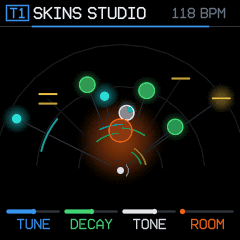
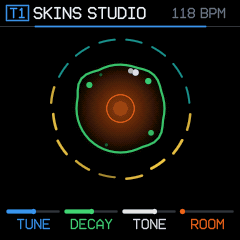
SKINS: a ghost in a shell, three layers that each algorithm changes
In the middle the ghost, the low end: a glow that swells on the kick and breathes. Round it the skin, a
membrane the snare, rim, clap and toms dent at the angle their pan gives them, springing back. Outside
the shell, a ring of metal segments the hats and cymbals shimmer; the open hat pushes them apart, the
closed hat snaps them shut. ORCH's layers are octagons, STUDIO's round; LIVE and HALL send ghost shells
drifting out; TIGHT and MARCH pull the layers in close with short, sharp dents; VINTAGE and SHELLAC are
gold, coarse and a little broken. TUNE spaces the layers, DECAY how slowly a dent springs back, TONE how
bright and thin the shell is, ROOM how many ghost shells and how bright. Replaces the sound field.
Host draw time 0.07-0.13 ms average, within the other engines'.

diff --git a/core/inst_skins.c b/core/inst_skins.c
@@ -17,7 +17,7 @@
  *   K3 (WHITE)  TONE    dark .. bright
  *   K4 (ORANGE) ROOM    the reflections' level (at 0 the two extra readers do not run)
  *
- * The picture is the kit as a sound field (below, before the InstDef). */
+ * The picture is a ghost in a shell (below, before the InstDef). */
 #include "internal.h"
 #include "dsp.h"
 #include "plunk_data.h"
@@ -247,57 +247,48 @@ static void sk_render(Voice *v, const Blk *b, f32 *out_l, f32 *out_r, int n)
     v->q[3] = cnt;
 }
 
-/* ---- the picture: the kit as a sound field, the listener at the bottom ------------------------------
- * Faint half rings around the listener, as a sonar's. Each drum is a mark placed by its pan (left, right)
- * and its register (low drums near, high ones far): a ring for a skin, a bar for metal, a dot for the
- * rest; ORCH's pans lay it out apart from STUDIO's. A strike flares its mark and sends a wavefront down to
- * the listener. TUNE sizes the marks, DECAY how long a wave lasts, TONE how bright and thin it is, ROOM
- * the field's rings and two fainter, wider wavefronts after it (the sound's two reflections). TIGHT's
- * waves are short; VINTAGE and SHELLAC draw in gold, with few segments, angular. The hat's two bars sit
- * apart while the open hat rings and close when the closed hat cuts it. */
-enum { M_SKIN, M_METAL, M_DOT };
-static const uint8_t REACH[NDRUM] = {40, 62, 58, 76, 70, 84, 102, 92, 116, 110, 102, 124};   /* from the listener */
-static const uint8_t MARK[2][NDRUM] = {
-    {M_SKIN, M_DOT, M_SKIN, M_DOT, M_SKIN, M_SKIN, M_METAL, M_SKIN, M_DOT, M_METAL, M_METAL, M_METAL},
-    {M_SKIN, M_DOT, M_SKIN, M_SKIN, M_SKIN, M_SKIN, M_METAL, M_SKIN, M_METAL, M_SKIN, M_METAL, M_METAL},
-};
-static const uint8_t MCOL[2][NDRUM] = {
-    {GC_ORANGE, GC_CYAN, GC_WHITE, GC_CYAN, GC_GREEN, GC_GREEN, GC_GOLD, GC_GREEN, GC_CYAN, GC_GOLD, GC_GOLD, GC_GOLD},
-    {GC_ORANGE, GC_CYAN, GC_WHITE, GC_WHITE, GC_BLUE, GC_BLUE, GC_GOLD, GC_BLUE, GC_GOLD, GC_ORANGE, GC_GOLD, GC_GOLD},
-};
-#define LX 120.0f
-#define LY 170.0f
-
+/* ---- the picture: a ghost in a shell ---------------------------------------------------------
+ * Three layers. In the middle the ghost, the low end: a soft glow that swells on the kick and breathes.
+ * Round it the skin, a membrane for the snare, rim, clap and toms: a strike pushes a dent into it at the
+ * angle the drum's pan gives it, and the dent springs back. Outside, the shell, a ring of metal segments
+ * for the hats and cymbals: struck, they shimmer; the open hat pushes them apart and the closed hat snaps
+ * them shut. ORCH's layers are faceted (octagons), STUDIO's round. LIVE and HALL send ghost shells drifting
+ * out (the room); TIGHT and MARCH pull the layers in close, with short, sharp dents; VINTAGE and SHELLAC
+ * are gold, drawn with few segments, a little broken. TUNE spaces the layers, DECAY is how slowly a dent
+ * springs back, TONE how bright and thin the shell is, ROOM how many ghost shells and how bright. */
+#define CX 120.0f
+#define CY 108.0f
 static f32 sk_e[NDRUM], sk_age[NDRUM];
 static uint32_t sk_seen[NVOICE];
 static int sk_gold;
 
 static void sk_col(int c) { g_color(sk_gold ? GC_GOLD : c); }
-
-/* an arc around the listener, radius r, from angle a0 to a1 (turns, 0 straight up), in n segments */
-static void sk_arc(f32 r, f32 a0, f32 a1, int n, f32 w, f32 a)
+static int sk_metal(int kit, int d)              /* the shell's drums: hats, cymbals and the bells */
 {
-    f32 xy[2 * 17];
-    int j;
-    if (r < 2.0f || a < 0.01f) return;
-    if (n > 16) n = 16;
-    for (j = 0; j <= n; j++) {
-        f32 t = a0 + (a1 - a0) * (f32)j / (f32)n;
-        xy[2 * j] = LX + r * sin_turns(t);
-        xy[2 * j + 1] = LY - r * cos_turns(t);
-    }
-    g_poly(xy, n + 1, 0, w, a);
+    return d == HAT || d == OHAT || d == CYM || (d == EXTRA1 && kit) || (d == EXTRA2 && !kit);
 }
+static f32 sk_angle(int kit, int d) { return (f32)KITS[kit][d].pan * 0.0105f; }   /* turns, 0 at the top */
+static f32 sk_facet(int kit, f32 th)             /* ORCH: a radius that draws an octagon, STUDIO: a circle */
+{
+    f32 u;
+    if (!kit) return 1.0f;
+    u = th * 8.0f;
+    u = (u - (f32)ifloor(u)) - 0.5f;             /* -0.5 .. 0.5 across a facet */
+    return 0.924f / cos_turns(u * 0.125f);
+}
+static f32 sk_wrap(f32 d) { return d - (f32)ifloor(d + 0.5f); }   /* an angle difference, -0.5 .. 0.5 turns */
 
 static void skins_draw(const Vis *vis)
 {
-    int kit = (vis->algo >> 2) & 1, treat = vis->algo & 3, i, j;
+    int kit = (vis->algo >> 2) & 1, treat = vis->algo & 3, i, j, n;
     f32 dt = vis->dt, tune = vis->k[0], dec = vis->k[1], tone = vis->k[2], room = vis->k[3];
-    f32 life = (0.25f + 1.1f * dec) * (treat == 2 ? 0.45f : treat == 1 ? 1.3f : 1.0f);
-    int seg = sk_gold ? 4 : 12;
+    f32 gap = (15.0f + 12.0f * tune) * (treat == 2 ? 0.62f : 1.0f);
+    f32 r_skin = 23.0f + gap, r_shell = r_skin + gap;
+    f32 life = (0.18f + 0.9f * dec) * (treat == 2 ? 0.5f : 1.0f);
+    f32 busy = 0.0f, eo, ec, xy[2 * 49];
 
     sk_gold = treat == 3;
-    seg = sk_gold ? 4 : 12;
+    n = sk_gold ? 12 : 48;
     if (vis->fresh) {
         for (i = 0; i < NDRUM; i++) sk_e[i] = 0.0f, sk_age[i] = 9.0f;
         for (i = 0; i < NVOICE; i++) sk_seen[i] = vis->v[i].serial;
@@ -313,62 +304,93 @@ static void skins_draw(const Vis *vis)
     for (i = 0; i < NDRUM; i++) {
         sk_age[i] += dt;
         sk_e[i] = maxf(0.0f, sk_e[i] - dt / life);
+        busy += sk_e[i];
     }
+    eo = sk_e[OHAT];
+    ec = sk_e[HAT];
 
-    /* the listener's glow, as warm as the playing is busy */
-    {
-        f32 busy = 0.0f;
-        for (i = 0; i < NDRUM; i++) busy += sk_e[i];
-        sk_col(GC_ORANGE);
-        g_glow(LX, LY - 30.0f, 46.0f + 10.0f * room, minf(0.42f, 0.10f + 0.16f * busy));
-    }
-    /* the field: half rings round the listener, brighter with ROOM */
-    sk_col(GC_SLATE);
-    for (j = 1; j <= 3; j++)
-        sk_arc(42.0f * (f32)j, -0.24f, 0.24f, seg + 4, 1.0f, 0.16f + 0.30f * room);
-    sk_col(GC_WHITE);
-    g_disc(LX, LY, 3.5f, 0.9f);
-    g_arc(LX, LY, 8.0f, 0.88f, 1.12f, 1.2f, 0.5f);
-
-    for (i = 0; i < NDRUM; i++) {
-        const Pad *p = &KITS[kit][i];
-        f32 ang = (f32)p->pan * 0.0042f, R = (f32)REACH[i];        /* (pan 44 is about 66 degrees) */
-        f32 x = LX + R * sin_turns(ang), y = LY - R * cos_turns(ang);
-        f32 e = sk_e[i], age = sk_age[i], sz = (4.5f + 3.0f * tune);
-        int c = MCOL[kit][i], k = MARK[kit][i];
-        if (i == OHAT) continue;                                     /* (the hats' mark is HAT's) */
-        sk_col(GC_SLATE);                                            /* its spoke to the listener */
-        g_line(LX + 10.0f * sin_turns(ang), LY - 10.0f * cos_turns(ang), x, y, 1.0f, 0.12f + 0.25f * e);
-
-        /* the wavefront down to the listener, and ROOM's two after it */
-        if (e > 0.02f) {
-            f32 u = minf(1.0f, age / (0.35f * life + 0.05f)), r = R * (1.0f - u);
-            f32 span = 0.02f + 0.05f * u, w = 1.2f + 1.8f * (1.0f - tone);
-            sk_col(c);
-            sk_arc(r, ang - span, ang + span, seg / 2 + 1, w, e * (0.45f + 0.5f * tone));
-            if (room > 0.02f)
-                for (j = 1; j <= 2; j++) {
-                    f32 uj = minf(1.0f, maxf(0.0f, age - 0.07f * (f32)j) / (0.35f * life + 0.05f));
-                    if (uj > 0.0f && uj < 1.0f)
-                        sk_arc(R * (1.0f - uj), ang - span * (1.0f + 1.5f * (f32)j), ang + span * (1.0f + 1.5f * (f32)j),
-                               seg / 2 + 2, 1.0f, room * e * (0.40f - 0.12f * (f32)j));
-                }
+    /* the room: ghost shells drifting out, as many and as bright as ROOM (more on LIVE and HALL) */
+    if (room > 0.02f) {
+        int ghosts = 1 + (int)(room * 2.5f) + (treat == 1);
+        for (j = 0; j < ghosts; j++) {
+            f32 ph = vis->t * 0.22f + (f32)j / (f32)ghosts, u = ph - (f32)ifloor(ph);
+            f32 r = r_shell + 4.0f + u * (30.0f + 10.0f * room);
+            for (i = 0; i <= n; i++) {
+                f32 th = (f32)i / (f32)n;
+                xy[2 * i] = CX + r * sk_facet(kit, th) * sin_turns(th);
+                xy[2 * i + 1] = CY - r * sk_facet(kit, th) * cos_turns(th);
+            }
+            sk_col(GC_CYAN);
+            g_poly(xy, n + 1, 0, 1.0f, room * (1.0f - u) * (0.18f + 0.25f * minf(1.0f, busy)));
         }
+    }
 
-        /* its mark */
-        sk_col(c);
-        if (e > 0.04f) g_glow(x, y, sz * 2.6f, e * (0.25f + 0.35f * tone));
-        if (k == M_SKIN) {
-            f32 rr = sz * (i == KICK ? 1.6f : 1.0f) * (1.0f + 0.35f * e);
-            if (e > 0.04f) g_disc(x, y, rr, e * 0.85f);
-            g_ring(x, y, rr, 1.8f, 0.75f + 0.25f * e);
-        } else if (k == M_METAL) {
-            f32 gap = 0.0f;
-            if (i == HAT) gap = 1.0f + 6.0f * sk_e[OHAT] * (1.0f - sk_e[HAT]);   /* the hats: open, or shut */
-            g_line(x - sz * 1.4f, y - gap, x + sz * 1.4f, y - gap, 2.0f, 0.75f + 0.25f * maxf(e, sk_e[OHAT] * (i == HAT)));
-            if (i == HAT) g_line(x - sz * 1.4f, y + gap, x + sz * 1.4f, y + gap, 2.0f, 0.75f);
+    /* the ghost: the low end, swelling on the kick */
+    {
+        f32 k = sk_e[KICK], breath = 0.5f + 0.5f * sin_turns(vis->t * 0.25f);
+        f32 r = (8.0f + 3.0f * breath) * (1.0f + 0.9f * k);
+        sk_col(GC_ORANGE);
+        g_glow(CX, CY, r_skin * (0.9f + 0.5f * k), 0.16f + 0.40f * k + 0.06f * minf(1.0f, busy));
+        if (sk_gold) {
+            for (i = 0; i <= 6; i++) {
+                f32 th = (f32)i / 6.0f + vis->t * 0.02f;
+                xy[2 * i] = CX + r * sin_turns(th);
+                xy[2 * i + 1] = CY - r * cos_turns(th);
+            }
+            g_poly(xy, 7, 0, 1.8f, 0.8f);
         } else {
-            g_disc(x, y, sz * 0.6f * (1.0f + 0.4f * e), 0.7f + 0.3f * e);
+            g_disc(CX, CY, r * 0.55f, 0.35f + 0.5f * k);
+            g_ring(CX, CY, r, 1.8f, 0.6f + 0.4f * k);
+        }
+    }
+
+    /* the skin: dented where a drum is struck, springing back */
+    for (i = 0; i <= n; i++) {
+        f32 th = (f32)i / (f32)n, r = r_skin;
+        for (j = 0; j < NDRUM; j++) {
+            f32 x, b;
+            if (j == KICK || sk_metal(kit, j) || sk_e[j] < 0.01f) continue;
+            x = sk_wrap(th - sk_angle(kit, j)) * (1.0f / 0.07f);
+            if (x <= -1.0f || x >= 1.0f) continue;
+            b = (1.0f - x * x) * (1.0f - x * x);
+            r -= b * sk_e[j] * (treat == 2 ? 11.0f : 8.0f) * cos_turns(sk_age[j] * (treat == 2 ? 5.0f : 2.6f));
+        }
+        r *= sk_facet(kit, th);
+        xy[2 * i] = CX + r * sin_turns(th);
+        xy[2 * i + 1] = CY - r * cos_turns(th);
+    }
+    sk_col(GC_GREEN);
+    g_poly(xy, n + 1, 0, 2.2f, 0.85f);
+    for (j = 0; j < NDRUM; j++) {                                    /* where each skin drum sits, a tick */
+        f32 th = sk_angle(kit, j), r = r_skin * sk_facet(kit, th);
+        if (j == KICK || sk_metal(kit, j)) continue;
+        sk_col(j == SNARE || j == RIM ? GC_WHITE : GC_GREEN);
+        g_disc(CX + (r - 5.0f) * sin_turns(th), CY - (r - 5.0f) * cos_turns(th), 1.6f + 2.0f * sk_e[j], 0.35f + 0.65f * sk_e[j]);
+    }
+
+    /* the shell: metal segments, shimmering where struck, apart for the open hat, shut by the closed one */
+    {
+        int segs = sk_gold ? 8 : 16;
+        f32 spread = 7.0f * eo * (1.0f - ec) - 2.0f * ec;
+        for (i = 0; i < segs; i++) {
+            f32 c = ((f32)i + 0.5f) / (f32)segs, half = (0.5f / (f32)segs) * (0.72f - 0.25f * eo * (1.0f - ec));
+            f32 hit = 0.0f, r;
+            int k;
+            if (sk_gold && (i % 5) == 3) continue;                   /* (a little broken) */
+            for (j = 0; j < NDRUM; j++) {
+                f32 x;
+                if (!sk_metal(kit, j) || sk_e[j] < 0.01f) continue;
+                x = sk_wrap(c - sk_angle(kit, j)) * (1.0f / 0.16f);
+                if (x > -1.0f && x < 1.0f) hit = maxf(hit, sk_e[j] * (1.0f - x * x));
+            }
+            r = r_shell + spread + hit * 3.0f * sin_turns(vis->t * 9.0f + (f32)i * 0.37f);
+            for (k = 0; k <= 4; k++) {
+                f32 th = c - half + 2.0f * half * (f32)k * 0.25f, rr = r * sk_facet(kit, th);
+                xy[2 * k] = CX + rr * sin_turns(th);
+                xy[2 * k + 1] = CY - rr * cos_turns(th);
+            }
+            sk_col(hit > 0.05f ? GC_GOLD : GC_CYAN);
+            g_poly(xy, 5, 0, (2.6f - 1.2f * tone) + 1.2f * hit, (0.35f + 0.4f * tone) + 0.5f * hit);
         }
     }
     g_color(GC_WHITE);

diff --git a/CHANGELOG.md b/CHANGELOG.md
@@ -34,12 +34,13 @@ A22's own history starts here. It is derived from h1 as of its 0.3.0; h1's histo
   below the limiter; at full track volume SKINS is 0.4 to 2 dB under KIT (its hits peak higher).
   `tests/skins.c` checks every drum on every algorithm sounds and ends, the chokes, ROOM and the
   treatments; `tests/state.c` that a state from before SKINS brings it up as new. The names and the picks
-  are placeholders until judged by ear. Its picture is the kit as a sound field: the listener at the
-  bottom in half rings, each drum a mark placed by its pan and its register (a ring for a skin, a bar for
-  metal, a dot for the rest), so ORCH lays out apart from STUDIO. A strike flares its mark and sends a
-  wavefront down to the listener; ROOM brightens the rings and sends two fainter, wider fronts after it
-  (the sound's reflections); TIGHT's waves are short, VINTAGE and SHELLAC gold and angular. The hat's two
-  bars close when the closed hat cuts the open one.
+  are placeholders until judged by ear. Its picture is a ghost in a shell, three layers: in the middle the
+  ghost (the low end), a glow that swells on the kick; round it the skin, a membrane the snare, rim, clap
+  and toms dent where their pan puts them, springing back; outside the shell, metal segments the hats and
+  cymbals shimmer, pushed apart by the open hat and snapped shut by the closed one. ORCH's layers are
+  octagons, STUDIO's round; LIVE and HALL send ghost shells drifting out, TIGHT and MARCH pull the layers in
+  with short, sharp dents, VINTAGE and SHELLAC are gold, coarse and a little broken. TUNE spaces the layers,
+  DECAY sets how slowly a dent springs back, TONE how bright the shell is, ROOM how many ghost shells.
 
 - A ninth effect, GRAIN: a granular cloud made of what the tracks send it. The last 0.74 s are kept (in
   the buffer DELAY, SHIFT, CHORUS and TANK use, so no more RAM), and up to eight grains read them back.

diff --git a/docs/PLAN-expansion-sprints.md b/docs/PLAN-expansion-sprints.md
@@ -84,7 +84,7 @@ TUNE, DECAY, TONE, ROOM. Thirteen new hits (17,879 bytes) appended to `sources.D
 again unchanged and KIT renders the same to the bit; the kits reuse nine of KIT's hits too. LIVE and HALL's
 room is two more readers of the same hit started 9.7 and 17.3 ms late (no buffer). The names, the picks and
 the kick are placeholders until judged by ear (`build/samples-preview/`). Its picture (branch `skins-picture`)
-is the kit as a sound field (marks by pan and register, wavefronts to a listener); it draws in KIT's time. Still to do:
+is a ghost in a shell: the low end's glow, a skin the drums dent, a shell of metal segments; it draws in KIT's time. Still to do:
 CI's flash number, and timing on the FM-1 with eight-note chords (LIVE and HALL run three readers a voice).
 At release, as for CYCLE: the site's banks, `fmhub.json`, `PRODUCT.md`, `DESIGN.md`'s inks, the release
 checklist's engine count, `app/fm1.toml`'s description, and `docs/img/a22/skins.png`.
